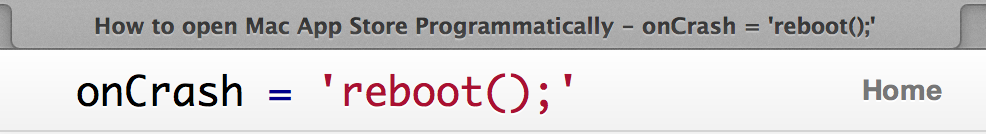
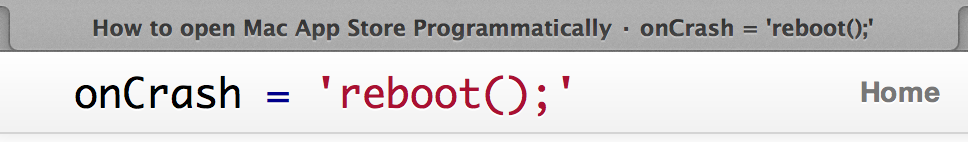
Update article for Elegant V1.3 release
I have also changed download button to a link and added code for Google
analytics tracking.

Some of the other changes like Slug and Summary have been done for SEO.

diff --git a/content/Projects/elegant-theme.md b/content/Projects/elegant-theme.md
@@ -1,25 +1,25 @@
 Title: Elegant
-Subtitle: A theme for Pelican
+Subtitle: Why it is the best Pelican theme 
 Date: 2013-08-27 23:20
 Category: Projects
 Tags: jinja2, bootstrap, front-end
-Summary: Elegant is a minimal, stylish and responsive Pelican theme. Its unique features include search, MailChimp, notification bar, live filter, collapsible comments, and custom 404 page.
-Slug: elegant-a-clean-theme-for-pelican-with-search-feature
+Summary: Elegant is a minimal, stylish and responsive Pelican theme. Its unique features are search, MailChimp, notification bar, twitter card, and custom 404 page.
+Slug: elegant-best-pelican-theme-features
 disqus_identifier: 2189d14-elegant-a-theme-for-pelican
-modified: <a href="https://github.com/talha131/onCrashReboot/commits/master/content/Projects/elegant-theme.md" title="Revision History" target="_blank">Oct 5, 2013</a>
+modified: <a href="https://github.com/talha131/onCrashReboot/commits/master/content/Projects/elegant-theme.md" title="Revision History" target="_blank">Oct 11, 2013</a>
 keywords: pelican theme, responsive theme, tipue search
 
 
 [TOC]
 
 
-Elegant is a responsive theme for [Pelican](http://getpelican.com/) powered by [Bootstrap](http://twitter.github.com/bootstrap/index.html), and developed in [Jinja2](http://jinja.pocoo.org/). It is a minimal, and stylish theme that looks amazing across all screen resolutions and devices. 
+Elegant is a stylish, responsive, and minimal [Pelican](http://getpelican.com/) theme that looks amazing across all screen resolutions and devices. 
 
 Elegant gives meaning to the expression "sand the under side of the drawer." Every feature and style of Elegant is the result of a long thought process. 
 
 <div style="text-align:center;">
-<button class="btn btn-large btn-primary" type="button" onclick="window.open('https://github.com/talha131/pelican-elegant/archive/V1.2.zip', '_blank');">Get Elegant <small>1.2</small></button>
-<div><a href="#license" title="License Agreement for using Elegant Theme"><small>License Agreement</small></a>|<a href="https://github.com/talha131/pelican-elegant/blob/master/RELEASE_NOTES.md#version-12" title="Release notes for Version 1.2" target="_blank"><small>Release Notes</small></a></div>
+<a class="btn btn-large btn-primary" onClick="_gaq.push(['_trackEvent', 'Outbound Link', 'Download on Github']);" href="https://github.com/talha131/pelican-elegant/archive/V1.3.zip" target="_blank">Get Elegant <small>1.3</small></a>
+<div><a href="#license" title="License Agreement for using Elegant Theme"><small>License Agreement</small></a>|<a href="https://github.com/talha131/pelican-elegant/blob/master/RELEASE_NOTES.md#version-13" title="Release notes for Version 1.3" target="_blank"><small>Release Notes</small></a></div>
 </div>
 
 What makes Elegant so special? 
@@ -170,7 +170,7 @@ Elegant has a custom Error 404 page for your readers.
 Elegant follows following format for the `<title>` tag
 
 ```
-Article title - Site Name
+Article title · Site Name
 ```
 
 ![Article title is always visible in the tab](|filename|/images/elegant-theme_page-title.png)
@@ -204,7 +204,7 @@ Elegant uses [Solarized](http://ethanschoonover.com/solarized) theme for syntax 
 
 ## Disqus Thread ID
 
-Most pelican themes pass article URL to Disqus as the [Disqus identifier](http://help.disqus.com/customer/portal/articles/472098-javascript-configuration-variables#disqus_identifier). This puts you at a disadvantage. If you are forced to change URL of an article you will lose Disqus discussion for that article because Disqus identifier for the article will change too.
+Most Pelican themes pass article URL to Disqus as the [Disqus identifier](http://help.disqus.com/customer/portal/articles/472098-javascript-configuration-variables#disqus_identifier). This puts you at a disadvantage. If you are forced to change URL of an article you will lose Disqus discussion for that article because Disqus identifier for the article will change too.
 
 Elegant offers you `disqus_identifier` property that you can set in your article meta data. Set it to any unique string you want. It won't be effected by the article URL.
 
@@ -220,7 +220,7 @@ You can put your license string in `SITE_LICENSE`. It will appear in the footer 
 
 The idea behind Elegant's design is to make reading a clean and distraction free experience. Table of contents is important but it is not part of the article content. Therefore, Elegant pushes out table of content to the left of the article's main content. Its font size is relatively smaller. This way, table of content stays visible for navigation but reader's attention to the article stays unaffected.
 
-To utilise this feature, you need to use [extract_toc](https://github.com/getpelican/pelican-plugins) pelican. Elegant encloses the table of content in `<nav>` tag for semantics.
+To utilise this feature, you need to use [extract_toc](https://github.com/getpelican/pelican-plugins) plugin. Elegant encloses the table of content in `<nav>` tag for semantics.
 
 ## Article Subtitle
 
@@ -288,9 +288,9 @@ Elegant uses commonly available typefaces in every style rule. It has a list of 
 
 ***************************
 
-# Elegant - Technical Nitty-Gritty
+## Elegant - Technical Nitty-Gritty
 
-## Configuration Variables
+### Configuration Variables
 
 Here are the variables that you should set in your configuration to get the most out of Elegant
 
@@ -329,7 +329,7 @@ These are the optional article meta data variables that you can use
 
 Blog [`onCrash=Reboot();`](http://oncrashreboot.com) uses Elegant theme. You can see its configuration files at [Github](https://github.com/talha131/onCrashReboot) for inspiration.
 
-## License
+### License
 
 The license requires that you give credit to me, Talha Mansoor, as the author of the Elegant theme on every site that uses this theme. I have placed the attribution in the footer of every page. Do not remove it. If you need to remove or change the style of the attribution, please get in [touch with me](http://oncrashreboot.com/#about-me) first. 
 
@@ -337,7 +337,7 @@ Along with this attribution clause, Elegant theme is licensed under The MIT Lice
 
 If you use my theme, I would love to hear from you. [Get in touch](http://oncrashreboot.com/#about-me) and let me know about it. I may link to your site too.
 
-## Contribute
+### Contribute
 
 Front end design is not my strong suite. I must have made some blunders in this design unknowingly. Please don't let me go away with buggy code.   
 
